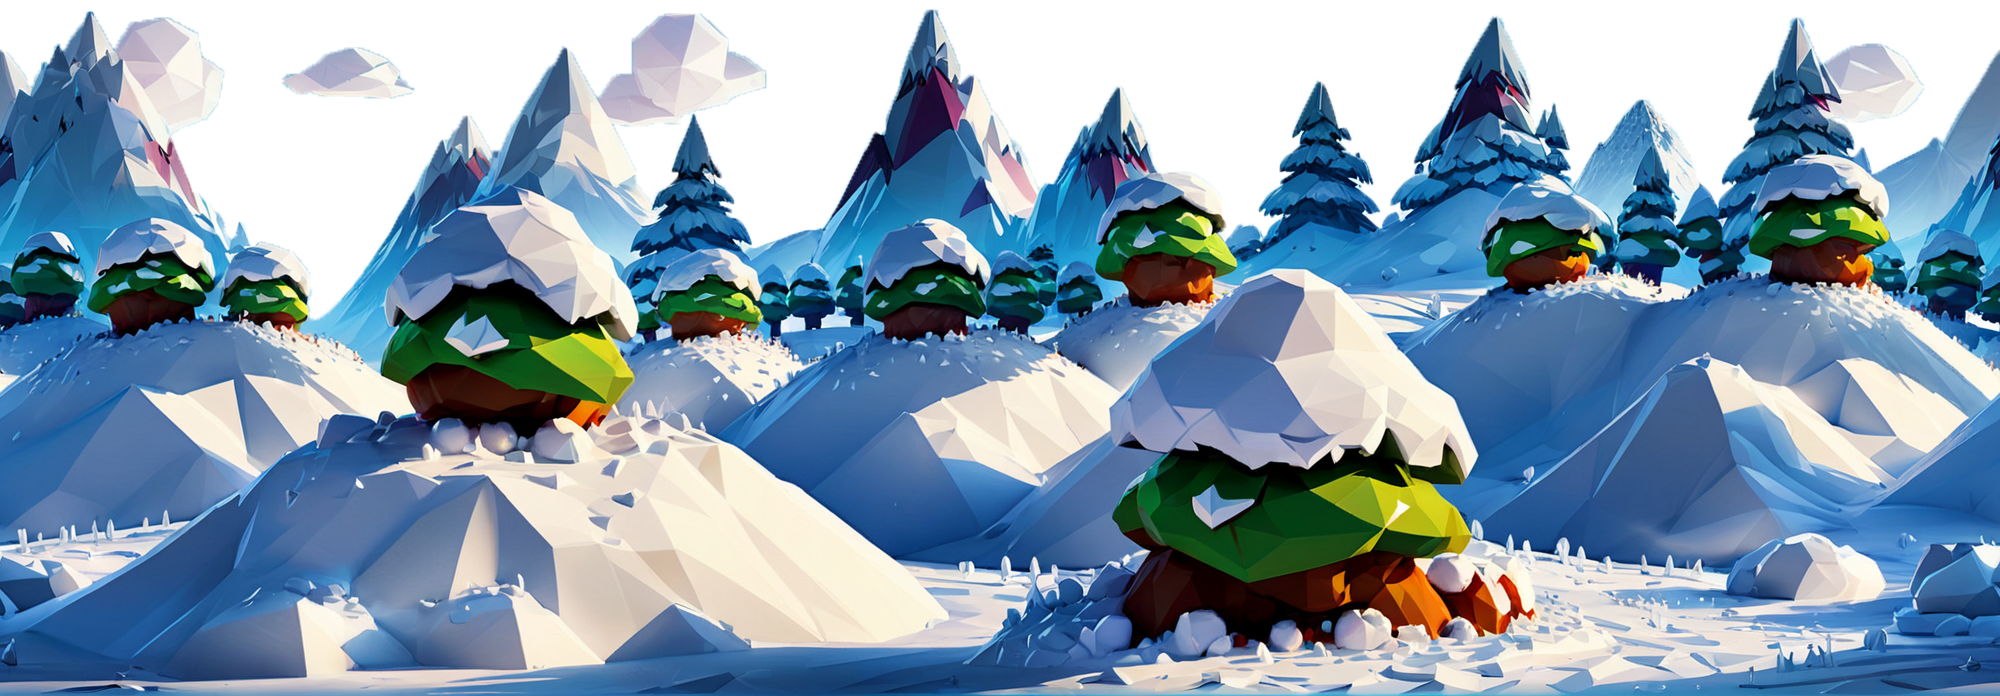
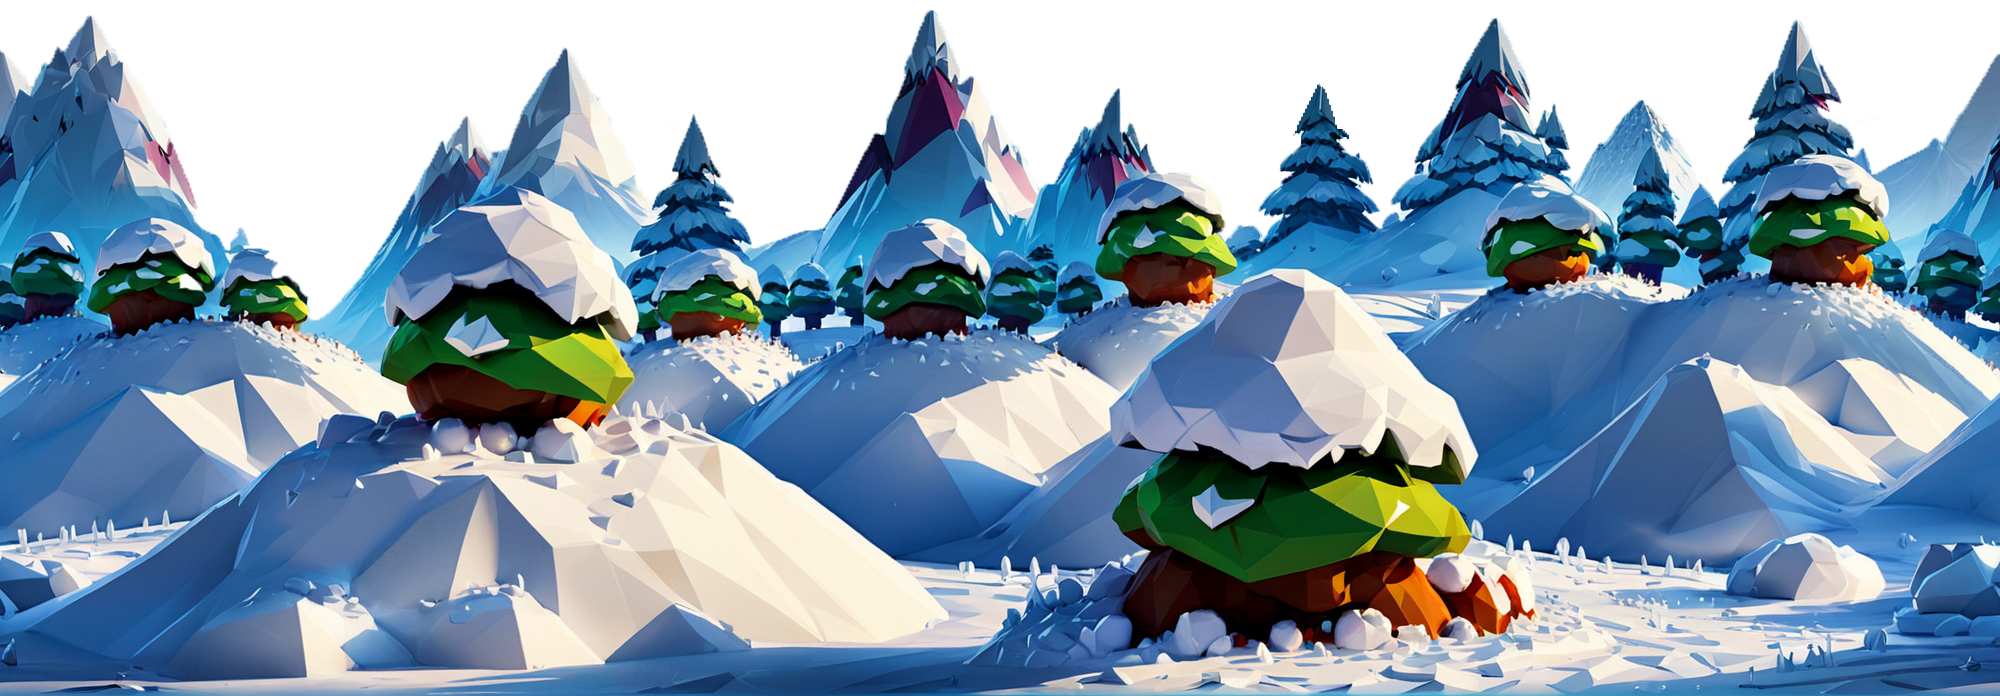
bg-fix

diff --git a/src/components/Markers.jsx b/src/components/Markers.jsx
@@ -18,7 +18,7 @@ const Markers = ({ gameAreaWidth, gameAreaHeight }) => {
           className="marker"
           style={{
             left: `${distance}px`,
-            top: `${gameAreaHeight - 290}px`,
+            top: `${gameAreaHeight - 260}px`,
           }}
         >
           <img src={KylttiImg} alt={`Marker at ${distance / 100} meters`}></img>

diff --git a/src/App.css b/src/App.css
@@ -183,7 +183,7 @@ body {
 .ground {
   height: 50px;
   position: absolute;
-  background-image: url("./assets/bg.png");
+  background-image: url("./assets/bg-new.png");
   background-size: contain;
   transform: translateY(-100%);
   z-index: -10;
